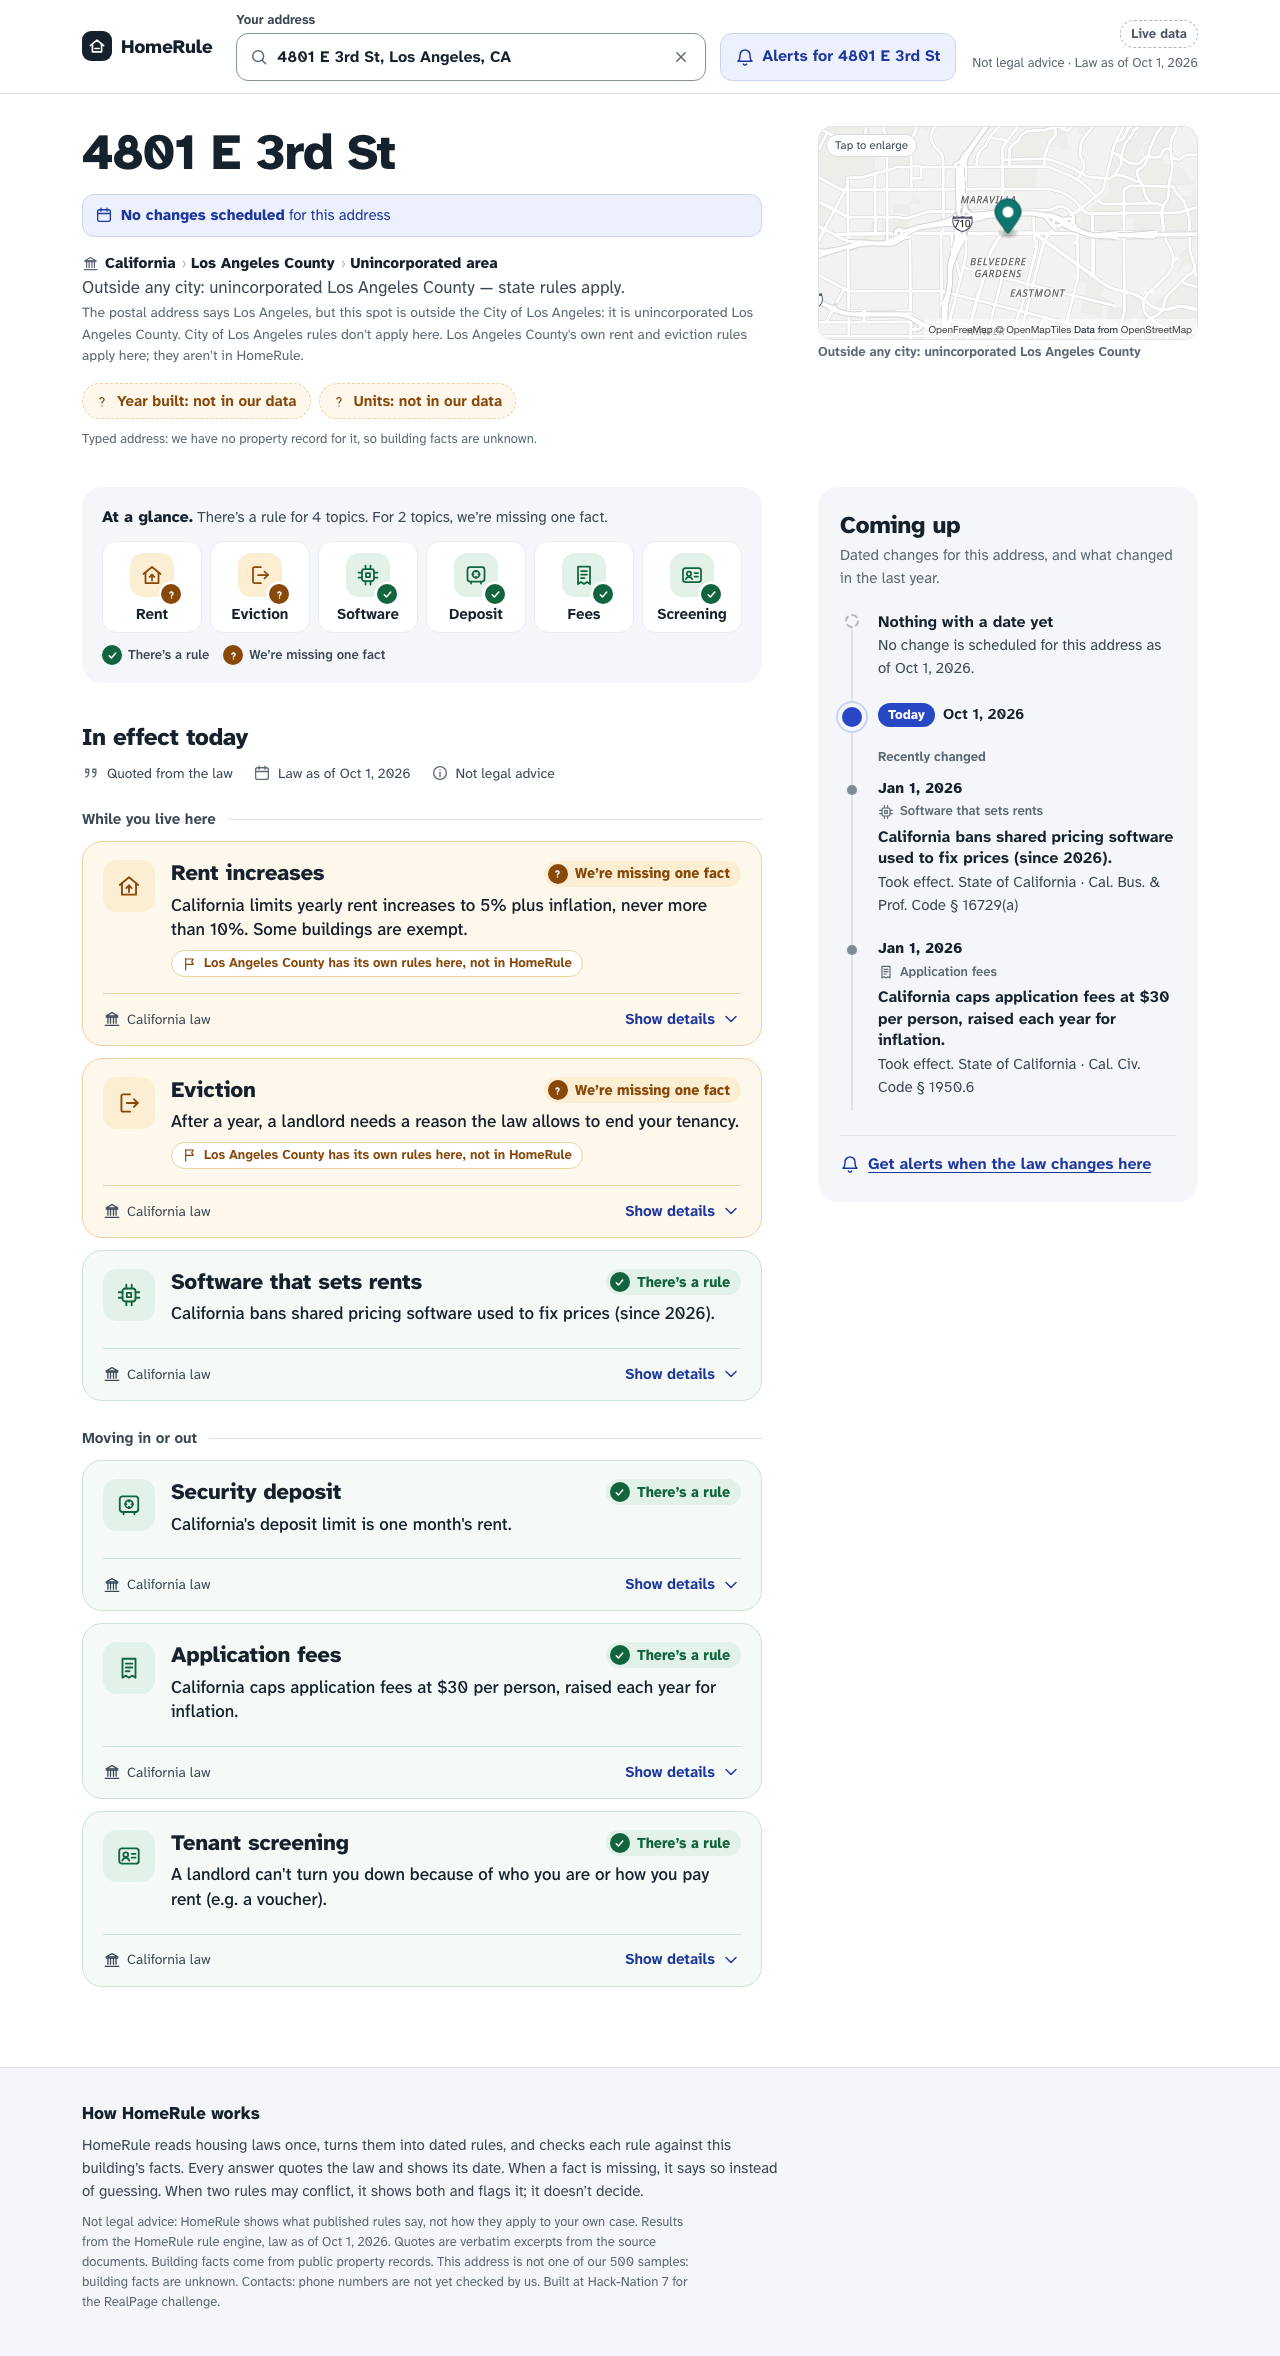
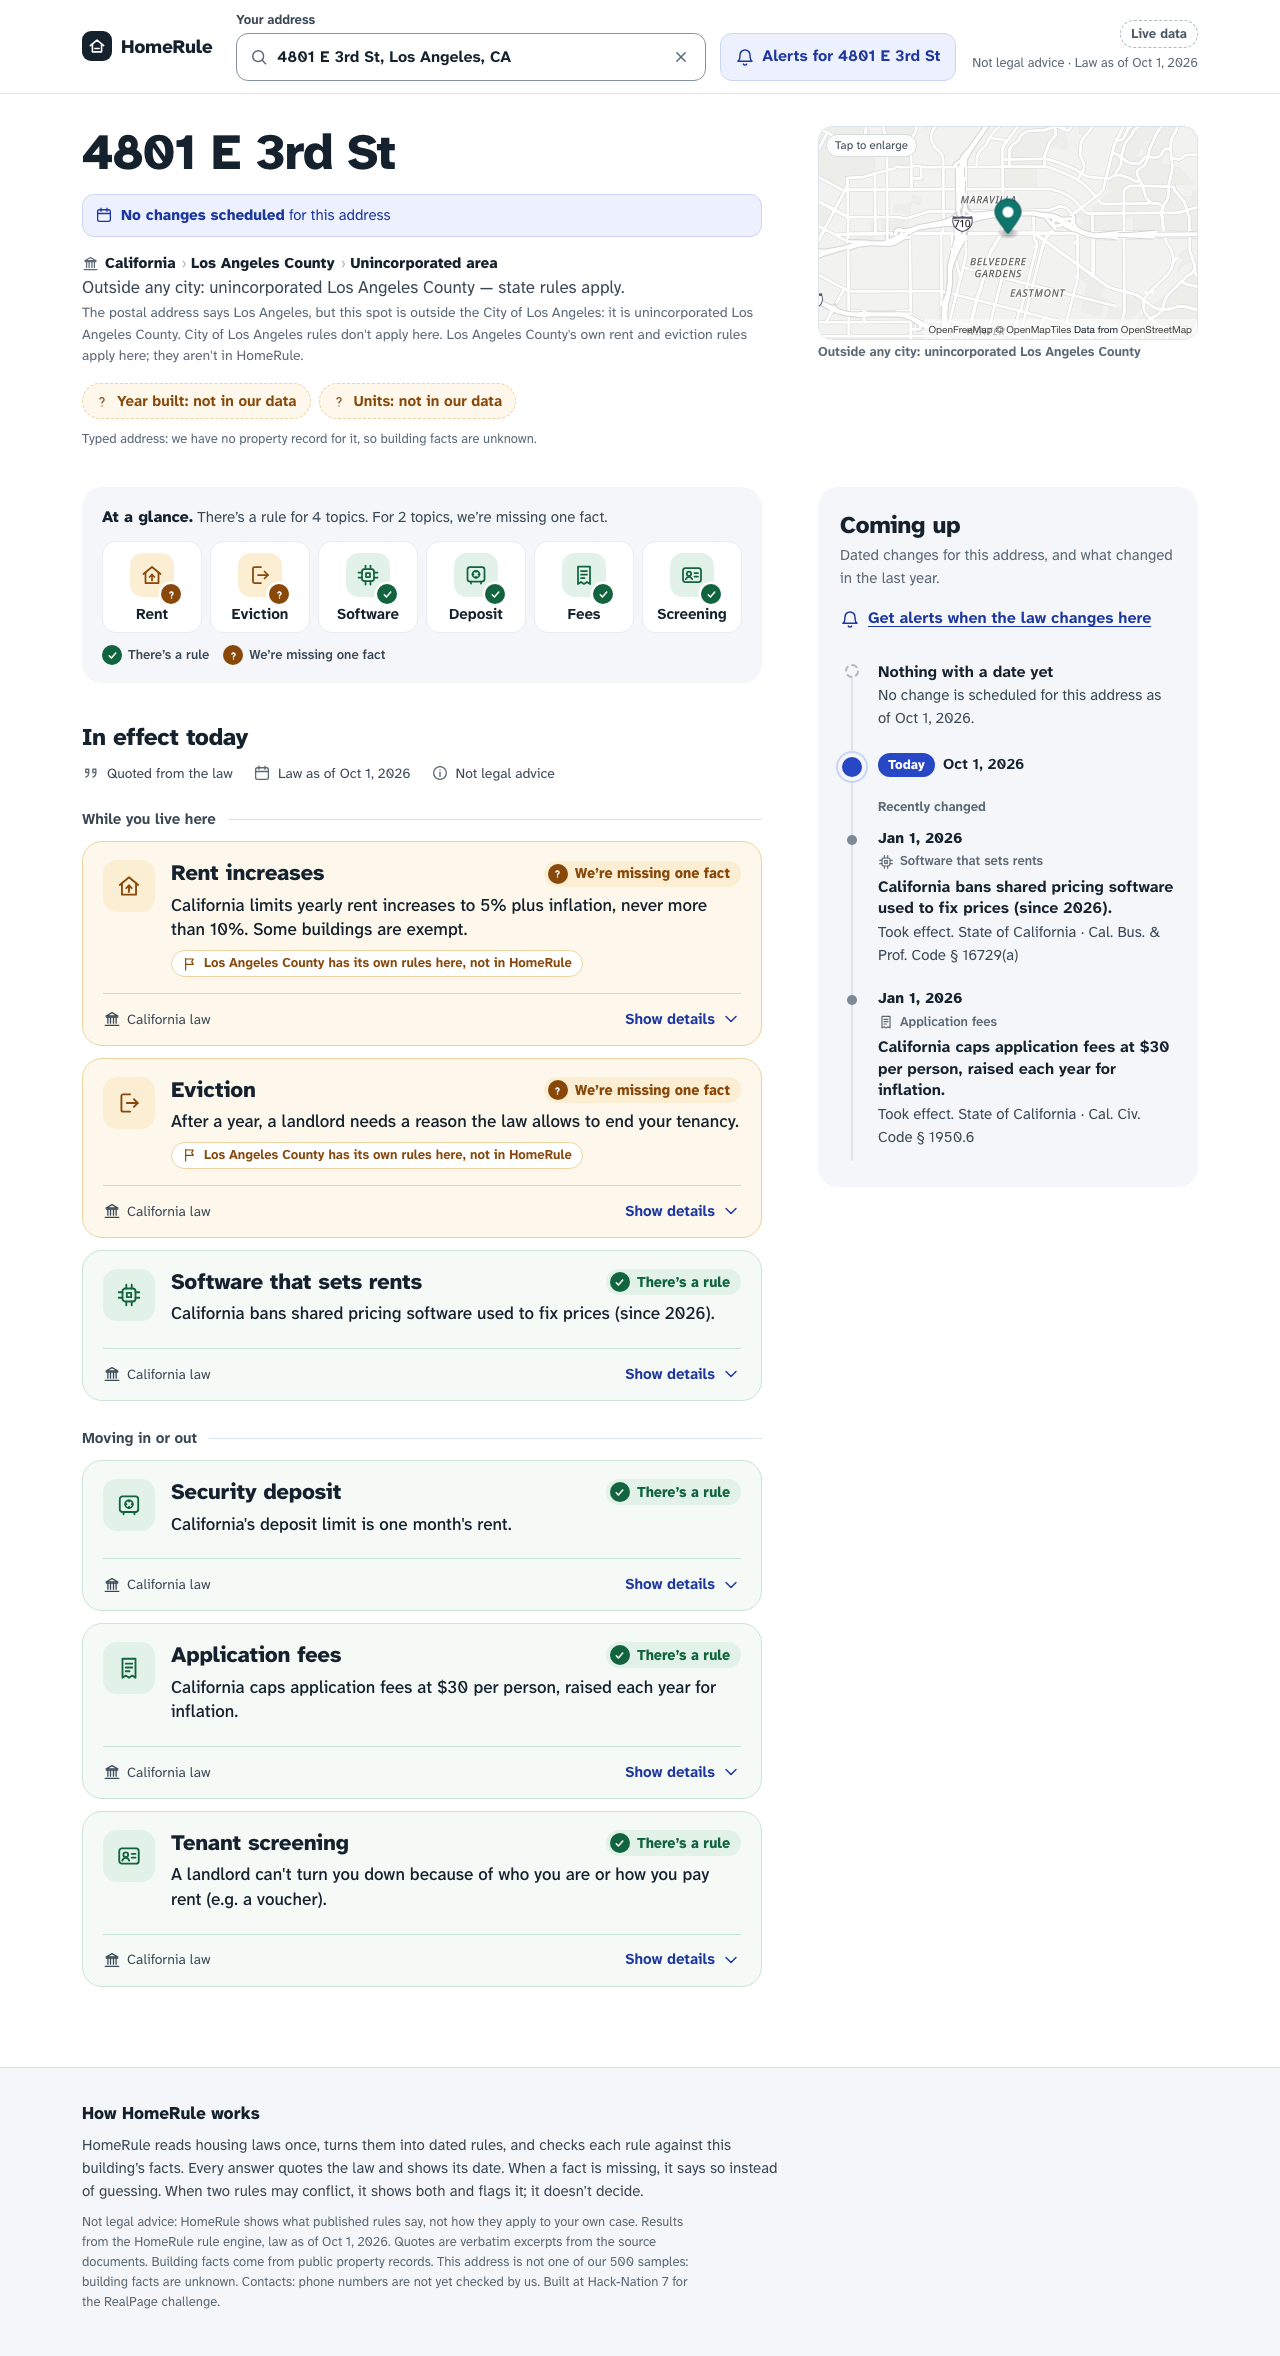
Address page: alerts link at the top of Coming up, above the timeline
Claude-Session: https://claude.ai/code/session_01DDCDN7SA3LNH1piJrEWYyd

Changed region(s): [[0.6562, 0.2479, 0.9062, 0.4958]]

diff --git a/web/app/a/[id]/address-page.tsx b/web/app/a/[id]/address-page.tsx
@@ -478,6 +478,12 @@ function Ahead({ v, onAlerts }: { v: AddressView; onAlerts: () => void }) {
         Coming up
       </h2>
       <p className="sec-sub">Dated changes for this address, and what changed in the last year.</p>
+      <p className="ahead-alert">
+        <button type="button" className="linkbtn" onClick={onAlerts}>
+          <Ic id="i-bell" />
+          Get alerts when the law changes here
+        </button>
+      </p>
       {v.proposed.length > 0 && (
         <div className="prop">
           <h3 className="prop-h">
@@ -521,12 +527,6 @@ function Ahead({ v, onAlerts }: { v: AddressView; onAlerts: () => void }) {
           <Ev key={e.date + e.title} e={e} cls="past" />
         ))}
       </ol>
-      <p className="ahead-foot">
-        <button type="button" className="linkbtn" onClick={onAlerts}>
-          <Ic id="i-bell" />
-          Get alerts when the law changes here
-        </button>
-      </p>
     </>
   );
 }

diff --git a/web/app/a/[id]/v3.css b/web/app/a/[id]/v3.css
@@ -453,3 +453,4 @@ body:has(.v3) > .site-header, body:has(.v3) > .site-footer{display:none}
 @media(max-width:999px){.v3 .map-card .maplibregl-ctrl-attrib{font-size:7px;line-height:1.1;padding:0 3px;max-width:100%}}
 .v3 .bell-w{display:none}
 @media(min-width:900px){.v3 .bell-w{display:inline}.v3 .bell-s{display:none}}
+.v3 .ahead-alert{margin-top:6px}
